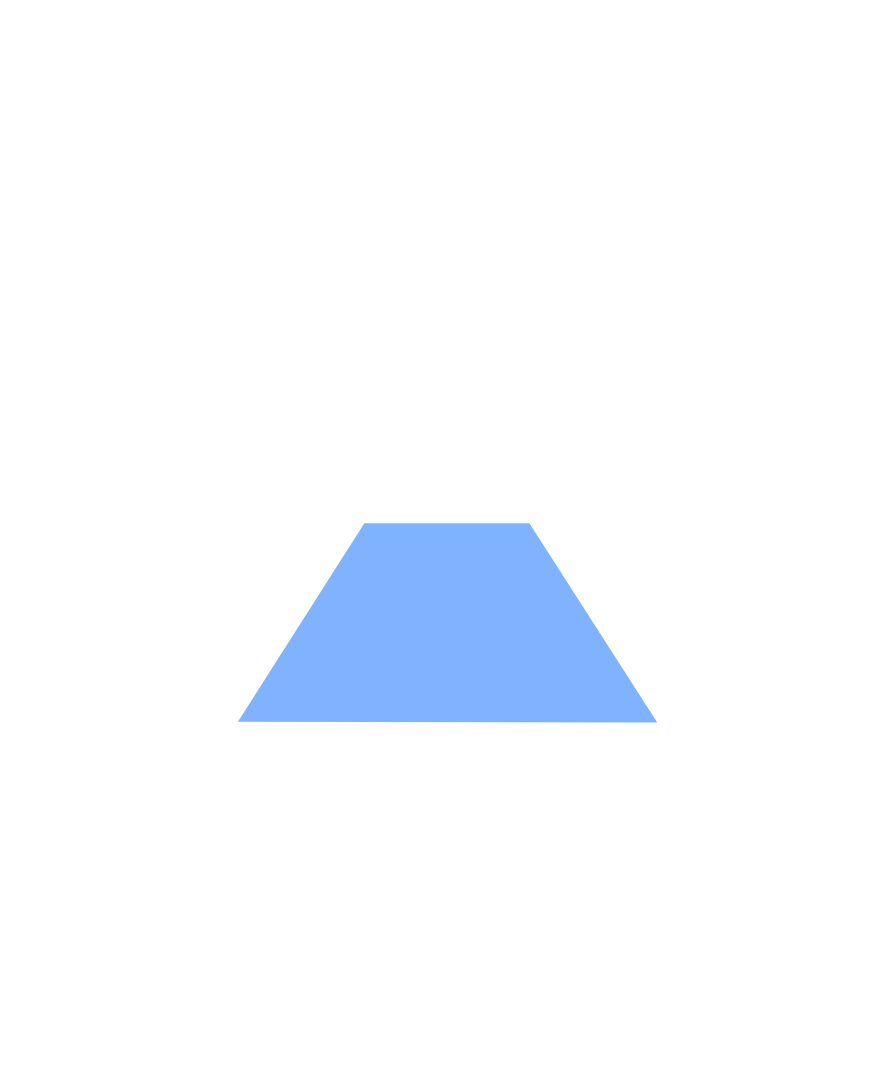
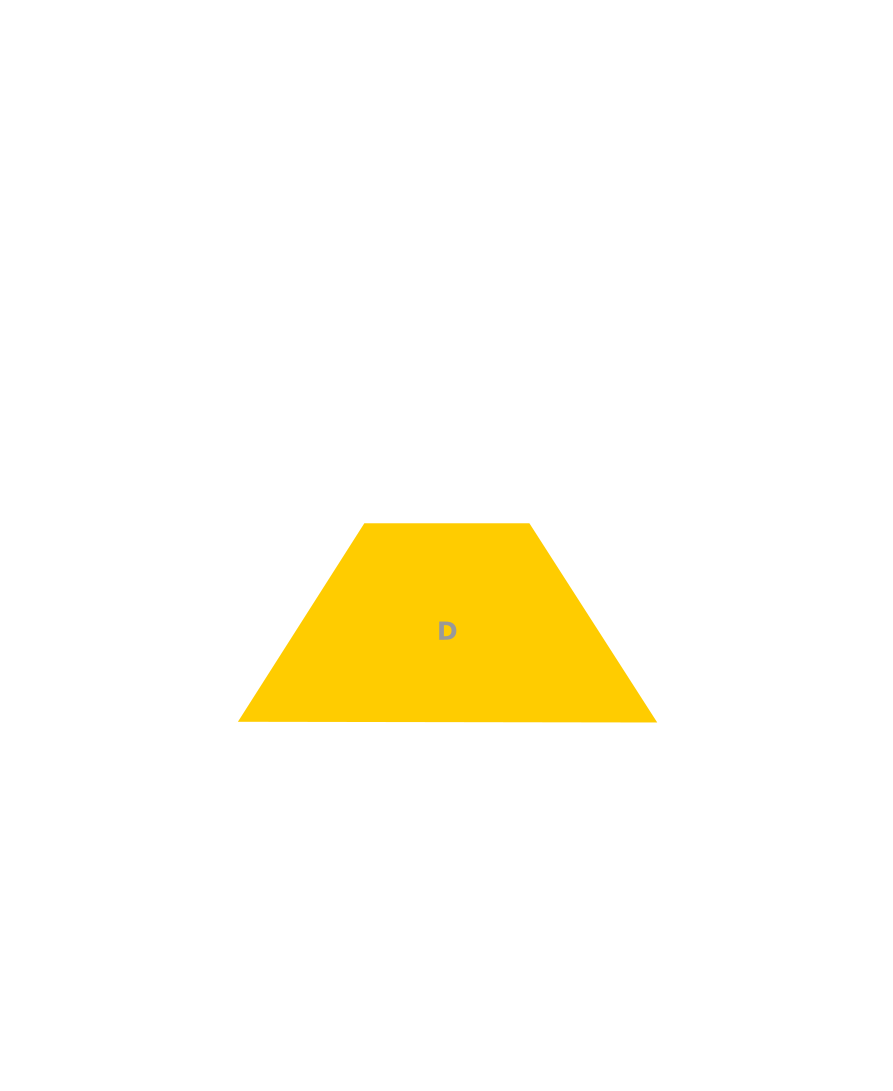
added background for RAD, added direct executable *.pyw files

Changed region(s): [[0.2721, 0.4675, 0.7256, 0.6856]]

diff --git a/settings.py b/settings.py
@@ -9,13 +9,14 @@ from src.materials import TABLE as m_tbl
 
 HUMAN = MotherVolume([Volume('gfx/torso2.png', 'Body', m_tbl['H2O'])])
 
-A = Volume("gfx/RAD_A.png", "A", m_tbl['Silicon'], s2px=1192./16/cm)
-B = Volume("gfx/RAD_B.png", "B", m_tbl['Silicon'], s2px=1192./16/cm)
-C = Volume("gfx/RAD_C.png", "C", m_tbl['Silicon'], s2px=1192./16/cm)
-D = Volume("gfx/RAD_D.png", "D", m_tbl['CsI'], s2px=1192./16/cm)
-E = Volume("gfx/RAD_E.png", "E", m_tbl['H2O'], s2px=1192./16/cm)
-F = Volume("gfx/RAD_F.png", "F", m_tbl['H2O'], s2px=1192./16/cm)
-RAD = MotherVolume([A, B, C, D, E, F])
+A = Volume("gfx/RAD_A.png", "A (Si)", m_tbl['Silicon'], s2px=1192./16/cm)
+B = Volume("gfx/RAD_B.png", "B (Si)", m_tbl['Silicon'], s2px=1192./16/cm)
+C = Volume("gfx/RAD_C.png", "C (Si)", m_tbl['Silicon'], s2px=1192./16/cm)
+D = Volume("gfx/RAD_D.png", "D (CsI)", m_tbl['CsI'], s2px=1192./16/cm)
+E = Volume("gfx/RAD_E.png", "E (BC430)", m_tbl['H2O'], s2px=1192./16/cm)
+F = Volume("gfx/RAD_F.png", "F (BC430)", m_tbl['H2O'], s2px=1192./16/cm)
+BG = Volume("gfx/RAD_BG.png", "Background", m_tbl['Vacuum'], s2px=1192./16/cm)
+RAD = MotherVolume([BG, A, B, C, D, E, F])
 
 CANCER_BG = Volume("gfx/cancer_bg.png", "Gesundes Gewebe", m_tbl['H2O'], s2px=700./16/cm)
 CANCER_FG = Volume("gfx/cancer_fg.png", "Krankes gewebe", m_tbl['H2O'], s2px=700./16/cm)

diff --git a/README.md b/README.md
@@ -15,7 +15,9 @@ Updates
 Usage
 -------
 In addition to the human torso and the cancer therapy example the geonetry of the Radiation Assessment Detector (RAD) (see http://mslrad.boulder.swri.edu/) is also available. The simulation setup can be defined in `LD50.py`.
-Set a human body via importing `HUMAN`, `CANCER`, `RPI`, or `RAD` as `geometry`.
+Set a geometry via importing `HUMAN`, `CANCER`, `RPI`, or `RAD` as `geometry`.
+The RAD and `RPI` geometry the can be executed directly via `rad.pyw`, `rpi.pyw`.
+
 
 Install
 -------
